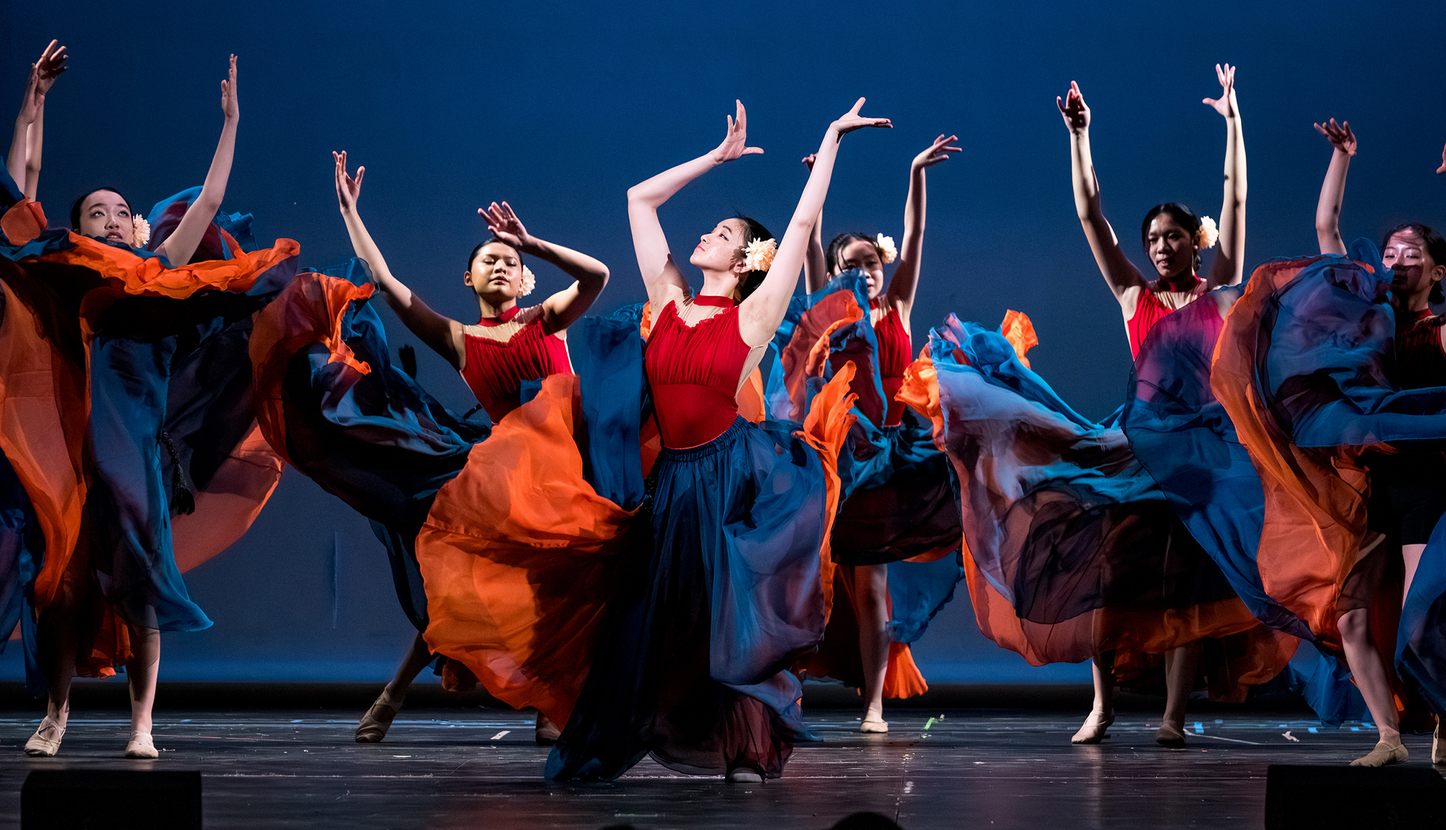
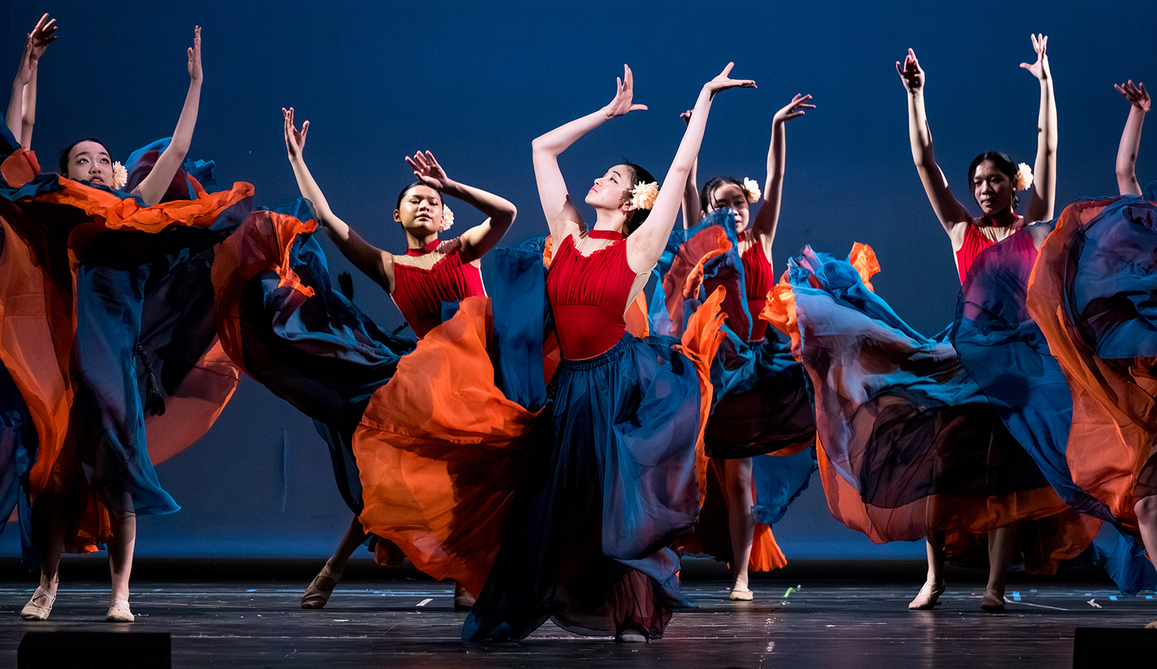
Add files via upload

diff --git a/index.html b/index.html
@@ -26,15 +26,15 @@
 	
 	<div class="text">
 	
-	
+	<h1>Who is Yanlai Dance Troupe</h1>
 	<p>
-The Yanlai Performance Troupe is a cultural arts nonprofit in Pittsburgh, Pennsylvania, dedicated to presenting professional Asian folk dance and contemporary cross-cultural choreography. The Troupe brings the beauty, history, and evolution of Asian dance to stages across Western Pennsylvania.
+The Yanlai Dance Troupe is a cultural arts nonprofit in Pittsburgh, Pennsylvania, dedicated to presenting professional Asian folk dance and contemporary cross-cultural choreography. The Troupe brings the beauty, history, and evolution of Asian dance to stages across Western Pennsylvania.
 </p>
 <p>
 We specialize in large-scale cultural productions, community performances, and collaborations with local arts institutions, universities, and cultural organizations. Our performances highlight the diversity of Asian dance traditions—from classical to contemporary—and reflect the rich, evolving identity of Asian arts in a Western context.
 </p>
 </p>
-The Troupe also creates opportunities for young dancers to perform in professional settings and contributes to the visibility of Asian performing arts within Pittsburgh’s cultural district. Through educational outreach, public performances, and cultural partnerships, we work to expand access to Asian dance and foster cross-cultural understanding across the region.
+Yanlai Dance Troupe also creates opportunities for young dancers to perform in professional settings and contributes to the visibility of Asian performing arts within Pittsburgh’s cultural district. Through educational outreach, public performances, and cultural partnerships, we work to expand access to Asian dance and foster cross-cultural understanding across the region.
 </p>
 <h1> Donate today!</h1>
 	<p>
@@ -43,18 +43,18 @@ Your donation preserves cultural heritage, expands arts access, and gives young 
 Yanlai Dance Troupe is a tax-exempt 501(c) nonprofit in the state of Pennsylvania.</p>
 <p>
 Donations to the organization are tax-deductible for the donor, provided the donor itemizes deductions on their tax return.</p>
+
 </div>
-
-	<img src="resources/watersleeve.jpg" alt="Description" >
-
+<img src="resources/watersleeve.jpg" alt="Three dancers use Chinese watersleeves to dance" >
 
 	
 <div class="footer">
 <div class="logo2">
 <a href="index.html"><img src="resources/logo2.png"></a></div>
 <a href="mailto:info@yanlaidancetroupe.org">info@yanlaidancetroupe.org</a>
-<br><br>
+<p>
 Yanlai Dance Troupe is an associated 501(c)(3) nonprofit organization on a mission to inspire, empower, and teach students about Chinese dance. Read more about our tax-exempt status. <br><br>© 2025  Yanlai Dance Troupe
+</p>
 </div>
 </body>
 </html>

diff --git a/info.html b/info.html
@@ -27,27 +27,29 @@
 	<div class="text">
 	<h2>Mission Statement</h2>
 	<p>
-Based in Pittsburgh, Yanlai Dance Troupe brings Asian dance to life for our community by funding, producing, and promoting inspiring cultural performances. Through fundraising and community partnerships, we create accessible opportunities for dancers to shine on professional stages while sharing culturally significant works that showcase the beauty, history, and stories of Asian arts, expanding across the world.</p>
+	Based in Pittsburgh, Yanlai Dance Troupe brings Asian dance to life for our community by funding, producing, and promoting inspiring cultural performances. Through fundraising and community partnerships, we create accessible opportunities for dancers to shine on professional stages while sharing culturally significant works that showcase the beauty, history, and stories of Asian arts, expanding across the world.</p>
 		<h2>Vision Statement</h2>
 	<p>
-We envision a world where Asian performing arts hold a strong place in our city’s stages, where students have the opportunity to experience the pride of cultural heritage, and where our community can see themselves reflected in the stories we tell. Our vision is to build sustainable support systems that enable larger productions, strengthen cultural representation, and ensure that and Asian dance continue to thrive as a vibrant and celebrated part of the performing arts scene.
-</p>
+	We envision a world where Asian performing arts hold a strong place in our city’s stages, where students have the opportunity to experience the pride of cultural heritage, and where our community can see themselves reflected in the stories we tell. Our vision is to build sustainable support systems that enable larger productions, strengthen cultural representation, and ensure that and Asian dance continue to thrive as a vibrant and celebrated part of the performing arts scene.
+	</p>
 		<h2>Board Members</h2>
-</p>
-President/Chair: Yanlai Wu<br>
-Vice President: Deborah Lee<br>
-Secretary: Shu Liu<br>
-Treasurer: Yao Zhang<br>
-CTO: Lucy Chen
-<p>
-
+	</p>
+	President/Chair: Yanlai Wu<br>
+	Vice President: Deborah Lee<br>
+	Secretary: Shu Liu<br>
+	Treasurer: Yao Zhang<br>
+	CTO: Lucy Chen
+	<p>
+	
+</div>
 </div>
 <div class="footer">
 <div class="logo2">
 <a href="index.html"><img src="resources/logo2.png"></a></div>
 <a href="mailto:info@yanlaidancetroupe.org">info@yanlaidancetroupe.org</a>
-<br><br>
+<p>
 Yanlai Dance Troupe is an associated 501(c)(3) nonprofit organization on a mission to inspire, empower, and teach students about Chinese dance. Read more about our tax-exempt status. <br><br>© 2025  Yanlai Dance Troupe
+</p>
 </div>
 </body>
 </html>

diff --git a/contact.html b/contact.html
@@ -4,7 +4,7 @@
 	<title>Yanlai Dance Troupe</title>
 	<meta name="viewport" content="width=device-width, initial-scale=1.0">
 	
-	<link rel="icon" type="image/x-icon" hred="resources/fav.ico">
+	<link rel="icon" type="image/x-icon" hred="resources/fav.png">
 	<link href="css/styles.css" rel="stylesheet">
 </head>
 
@@ -23,22 +23,24 @@
 	<div class="pageheader">
 	<h1>Contact</h1>
 	</div>
-	<div class="centertext">
+	<div class="text">
 	<h1>
 	We want to collaborate with you on your next performance!</h1>
 	<p>Contact us at <a href="mailto:info@yanlaidancetroupe.org">info@yanlaidancetroupe.org</a></p>
-	<br><h1>Follow our socials</h2>
-	<p><a href="https://www.instagram.com/yanlaidancetroupe/">Instagram</a>
-	<br><a href="https://www.linkedin.com/company/yanlai-dance-troupe/">LinkedIn</a></p>
-	</div>
+	<br><h2>Follow our socials</h2>
+		<div class="icons">
+	<a class="icon" href="https://www.instagram.com/yanlaidancetroupe/"><img src="resources/instagram.jpg" alt="instagram icon"></a>
+	<a class="icon" href="https://www.linkedin.com/company/yanlai-dance-troupe/"><img src="resources/linkedin.jpg" alt="linkedin icon"></a>
+	</div></div>
 		<img src="resources/pink.jpg" alt="Description" style="width:100%; padding:0px;">
 
 <div class="footer">
 <div class="logo2">
 <a href="index.html"><img src="resources/logo2.png"></a></div>
 <a href="mailto:info@yanlaidancetroupe.org">info@yanlaidancetroupe.org</a>
-<br><br>
+<p>
 Yanlai Dance Troupe is an associated 501(c)(3) nonprofit organization on a mission to inspire, empower, and teach students about Chinese dance. Read more about our tax-exempt status. <br><br>© 2025  Yanlai Dance Troupe
+</p>
 </div>
 </body>
 </html>

diff --git a/donate.html b/donate.html
@@ -21,12 +21,14 @@
 	</div>
 	
 	<div class="col">
-	<img src="resources/fan.jpg" alt="Description" style="width:100%; padding:0px;">
-	<h1>Donate to Yanlai Dance Troupe</h1>
-	Your gift today will empower, inspire, and teach the next generation of dancers. Keep the art of dance alive! Make your gift today!
-	<div class="qr"><img src="resources/donateqr.jpg"></div>
-	<h2>Send a Zelle to info@yanlaidancetroupe@gmail.com</h2>
-	<p>Need a receipt? Contract us at info@yanlaidancetroupe.org</p>
+		<img src="resources/dunhuang.jpg" alt="Description" style="width:100%; padding:0px;">
+		<div class="coltext">
+			<h1>Donate to Yanlai Dance Troupe</h1>
+			Your gift today will empower, inspire, and teach the next generation of dancers. Keep the art of dance alive! Make your gift today!
+			<div class="qr"><img src="resources/donateqr.jpg"></div>
+			<h2>Send a Zelle to info@yanlaidancetroupe@gmail.com</h2>
+			<p>Need a receipt? Contract us at info@yanlaidancetroupe.org</p>
+		</div>
 
 	</div>
 	
@@ -34,8 +36,9 @@
 <div class="logo2">
 <a href="index.html"><img src="resources/logo2.png"></a></div>
 <a href="mailto:info@yanlaidancetroupe.org">info@yanlaidancetroupe.org</a>
-<br><br>
+<p>
 Yanlai Dance Troupe is an associated 501(c)(3) nonprofit organization on a mission to inspire, empower, and teach students about Chinese dance. Read more about our tax-exempt status. <br><br>© 2025  Yanlai Dance Troupe
+</p>
 </div>
 </body>
 </html>

diff --git a/css/styles.css b/css/styles.css
@@ -17,6 +17,8 @@ a:hover{
 	display:table-cell;
 	font-size:22px;
 	}
+
+
 #nav a{
 	text-decoration:none;
 	}
@@ -80,6 +82,22 @@ text-align:center;}
 .col{
 column-count:2;}
 
+.coltext{
+	margin-right: 20%;
+	padding-top: 10%;
+}
+
+.icons{
+	padding-bottom: 50px;
+}
+
+.icon{
+	width: 50px;
+	display: table-cell;
+	text-align: center;
+	padding-right: 10px;
+}
+
 .pageheader{
 background:#e5233a;
 color:white;
@@ -99,8 +117,6 @@ line-height:35px;
 font-weight: 880;}
 
 .footer{
-	width:100%;
-	display:table-cell;
 	padding:15px;
 	padding-left:20%;
 	padding-right:20%;
